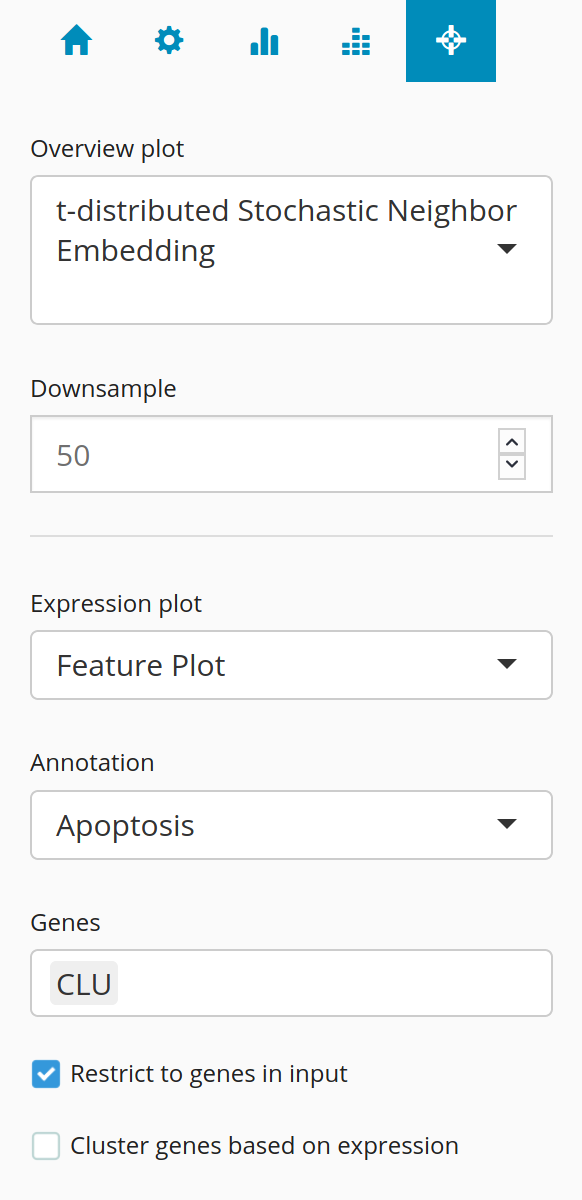
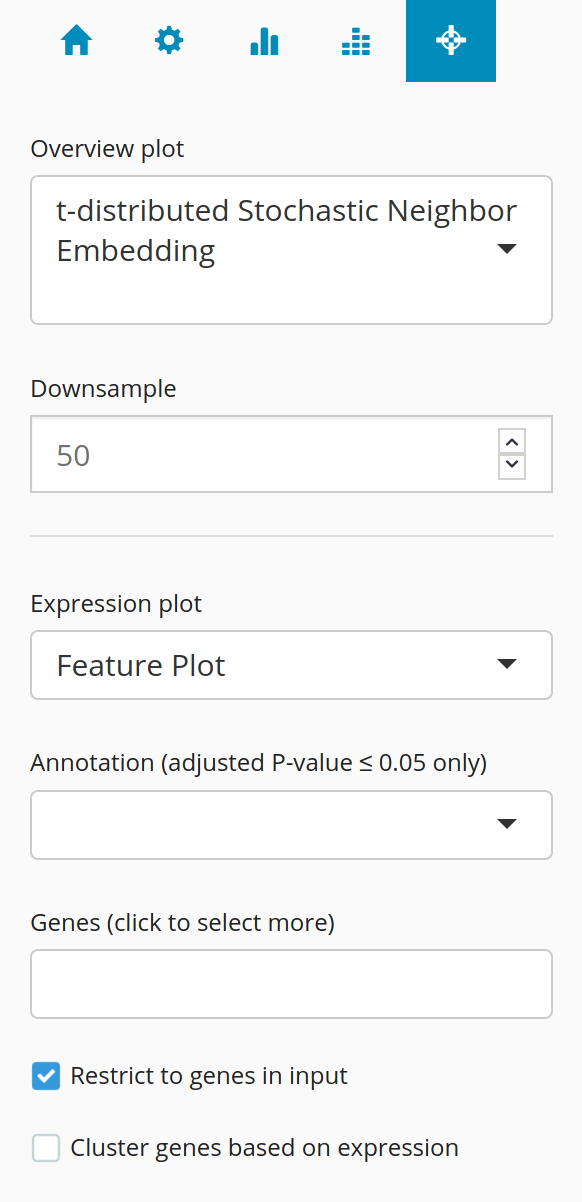
Add intra-cluster differential expression calculation

diff --git a/README.md b/README.md
@@ -5,9 +5,6 @@ glacier <img src="man/figures/icon.png" align="right" height="139">
 ===================================================================
 
 <!-- badges: start -->
-
-[![master-build-macos Actions
-Status](https://github.com/lilin-yang/glacier/workflows/build-macos/badge.svg)](https://github.com/lilin-yang/glacier/actions)
 <!-- badges: end -->
 
 The goal of glacier is to calculate annotation overlap statistics for
@@ -36,7 +33,7 @@ You can install the development version of glacier from from
 [GitHub](https://github.com/) with:
 
     # install.packages("devtools")
-    devtools::install_github("lilin-yang/glacier")
+    devtools::install_github("AhmedMehdiLab/glacier", build_vignettes = TRUE)
 
 Description
 -----------
@@ -62,9 +59,6 @@ Web application
 A web interface for those less familiar with R is also provided, and can
 be started with `webstart()`. A guide to using the web interface can be
 found in `vignette("web-app", package = "glacier")`.
-
-As an alternative, an instance is hosted online at
-[shinyapps.io](https://lilin-yang.shinyapps.io/glacier/).
 
 Acknowledgements
 ----------------

diff --git a/NEWS.md b/NEWS.md
@@ -1,4 +1,8 @@
 # glacier (development)
+## glacier 0.12.6
+* Add intra-cluster differential expression view options
+* Update documentation
+
 ## glacier 0.12.5
 * Switched ggplot2 themes
 * Filter annotations in single-cell options by default
